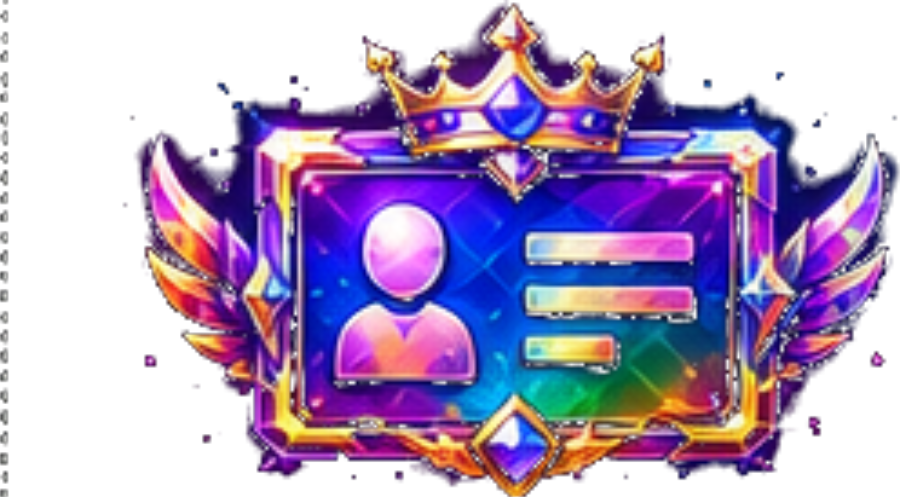
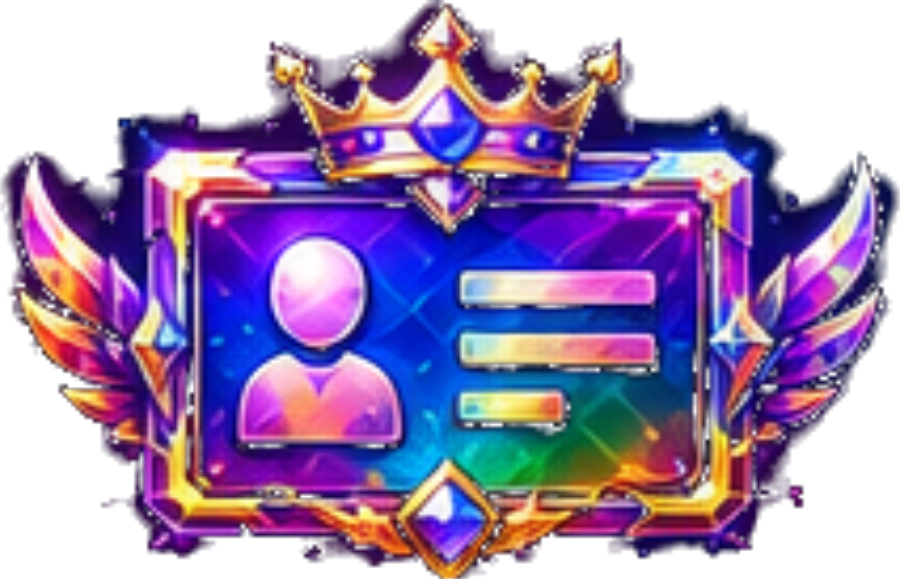
Özel ID tasarım düzeltmeleri: kart ID plakası + profil üstü + temiz kırpım
1) Premium kart ID metni artık sağ metin-bandına temalı bir PLAKA ile yazılıyor
   (kişi ikonunu ezmiyor, her kartta okunaklı/tutarlı) — eski dağınık görünüm gitti.
2) Tanımlı özel ID profilde üstteki ID satırının YERİNE geçiyor (düz "ID: x"
   kaldırıldı), dokununca /special-id'ye gidiyor.
3) ID kartları yeniden kırpıldı: en-büyük-bileşen filtresi kesikli ızgara
   çizgilerini ve saçık noktaları kaldırıyor; flood eşiği düşürülüp iç panele
   sızıntı giderildi. 25 kartın tamamı temiz, köşe alpha=0.

Claude-Session: https://claude.ai/code/session_01FFBK9gwZdbywsPLfswHnhK

diff --git a/src/components/OzelId.tsx b/src/components/OzelId.tsx
@@ -40,12 +40,14 @@ export const OZEL_ID_KART_KAYNAK = CARD;
 // düzeni ortak: solda kişi ikonu, sağda metin bantları. Kanatlı kartlarda
 // gövde biraz dar; varsayılan çoğunu tutar, gerekirse frame'e özel geçilebilir.
 const PHOTO_RECT = { l: 0.235, r: 0.4, t: 0.42, b: 0.74 };
-const TEXT_RECT = { l: 0.47, r: 0.79, t: 0.42, b: 0.72 };
+// ID plakası: kartların sağ metin-bandı bölgesi (kişi ikonunun sağı). Baked
+// bantların üstüne temiz bir "plaka" oturur — her kartta okunaklı/tutarlı.
+const PLATE_RECT = { l: 0.47, r: 0.8, t: 0.44, b: 0.65 };
 const CARD_RATIO = 1.9; // ortalama en-boy (yükseklik = genişlik / oran)
 
 /**
- * Premium ÖZEL ID kartı (≤5 basamak). Çerçeve çizilir, ID metni kart üzerine
- * (metin bandına) yazılır; opsiyonel foto kişi slotuna oturur.
+ * Premium ÖZEL ID kartı (≤5 basamak). Çerçeve çizilir, ID metni sağ metin
+ * bandına ince temalı bir plakayla yazılır; opsiyonel foto kişi slotuna oturur.
  */
 export function OzelIdKart({
   frame,
@@ -59,7 +61,9 @@ export function OzelIdKart({
   width?: number;
 }) {
   const height = width / CARD_RATIO;
-  const tx = TEXT_RECT, px = PHOTO_RECT;
+  const t = OZEL_ID_TEMA_RENK[frame];
+  const px = PHOTO_RECT, pl = PLATE_RECT;
+  const plateH = height * (pl.b - pl.t);
   return (
     <View style={{ width, height }}>
       <Image source={CARD[frame]} style={{ width, height }} contentFit="contain" />
@@ -79,35 +83,42 @@ export function OzelIdKart({
         />
       )}
 
-      <View
-        style={{
-          position: "absolute",
-          left: width * tx.l,
-          top: height * tx.t,
-          width: width * (tx.r - tx.l),
-          height: height * (tx.b - tx.t),
-          alignItems: "center",
-          justifyContent: "center",
-        }}
-        pointerEvents="none"
-      >
-        <Text
-          numberOfLines={1}
-          adjustsFontSizeToFit
+      {!!id && (
+        <View
           style={{
-            fontFamily: Font.displayBold,
-            fontSize: height * 0.2,
-            color: "#FFF7E6",
-            letterSpacing: 1,
-            includeFontPadding: false,
-            textShadowColor: "rgba(0,0,0,.55)",
-            textShadowOffset: { width: 0, height: 1 },
-            textShadowRadius: 3,
+            position: "absolute",
+            left: width * pl.l,
+            top: height * pl.t,
+            width: width * (pl.r - pl.l),
+            height: plateH,
+            borderRadius: plateH * 0.32,
+            backgroundColor: "rgba(8,6,10,0.62)",
+            borderWidth: 1,
+            borderColor: t.accent,
+            alignItems: "center",
+            justifyContent: "center",
+            paddingHorizontal: plateH * 0.3,
           }}
+          pointerEvents="none"
         >
-          {id}
-        </Text>
-      </View>
+          <Text
+            numberOfLines={1}
+            adjustsFontSizeToFit
+            style={{
+              fontFamily: Font.displayBold,
+              fontSize: plateH * 0.62,
+              color: t.accent,
+              letterSpacing: 1.5,
+              includeFontPadding: false,
+              textShadowColor: "rgba(0,0,0,.7)",
+              textShadowOffset: { width: 0, height: 1 },
+              textShadowRadius: 2,
+            }}
+          >
+            {id}
+          </Text>
+        </View>
+      )}
     </View>
   );
 }

diff --git a/src/app/(tabs)/profile.tsx b/src/app/(tabs)/profile.tsx
@@ -151,10 +151,16 @@ export default function ProfileTab() {
                   </View>
                 )}
               </View>
-              <View style={{ flexDirection: "row", alignItems: "center", gap: 5, marginTop: 3 }}>
-                <Txt weight="semibold" size={10.5} color={C.dim}>ID: {publicId || "—"}</Txt>
-                <Icon name="copy" size={12} color={C.dim2} />
-              </View>
+              {ozelId && ozelIdKart ? (
+                <Pressable onPress={() => { haptic.light(); router.navigate("/special-id"); }} style={{ marginTop: 5, alignSelf: "flex-start" }}>
+                  <OzelIdGosterim id={ozelId} theme={ozelIdKart} kartWidth={150} kapsulSize={13} />
+                </Pressable>
+              ) : (
+                <View style={{ flexDirection: "row", alignItems: "center", gap: 5, marginTop: 3 }}>
+                  <Txt weight="semibold" size={10.5} color={C.dim}>ID: {publicId || "—"}</Txt>
+                  <Icon name="copy" size={12} color={C.dim2} />
+                </View>
+              )}
             </View>
           </View>
 
@@ -168,13 +174,6 @@ export default function ProfileTab() {
             {isStreamer && <PngBadge name="role_streamer" size={28} />}
             {betaTester && <PngBadge name="special_beta_tester" size={28} />}
           </View>
-
-          {/* Tanımlı ÖZEL ID — kart (≤5 hane) veya kapsül (6-7). Dokun → düzenle */}
-          {ozelId && ozelIdKart && (
-            <Pressable onPress={() => { haptic.light(); router.navigate("/special-id"); }} style={{ marginTop: 12, alignSelf: "flex-start" }}>
-              <OzelIdGosterim id={ozelId} theme={ozelIdKart} kartWidth={210} kapsulSize={15} />
-            </Pressable>
-          )}
 
           {/* Beta Tester hakkı: kapsül kimliğini henüz almadıysa yönlendir (alınca kaybolur) */}
           {betaTester && !ozelId && (
